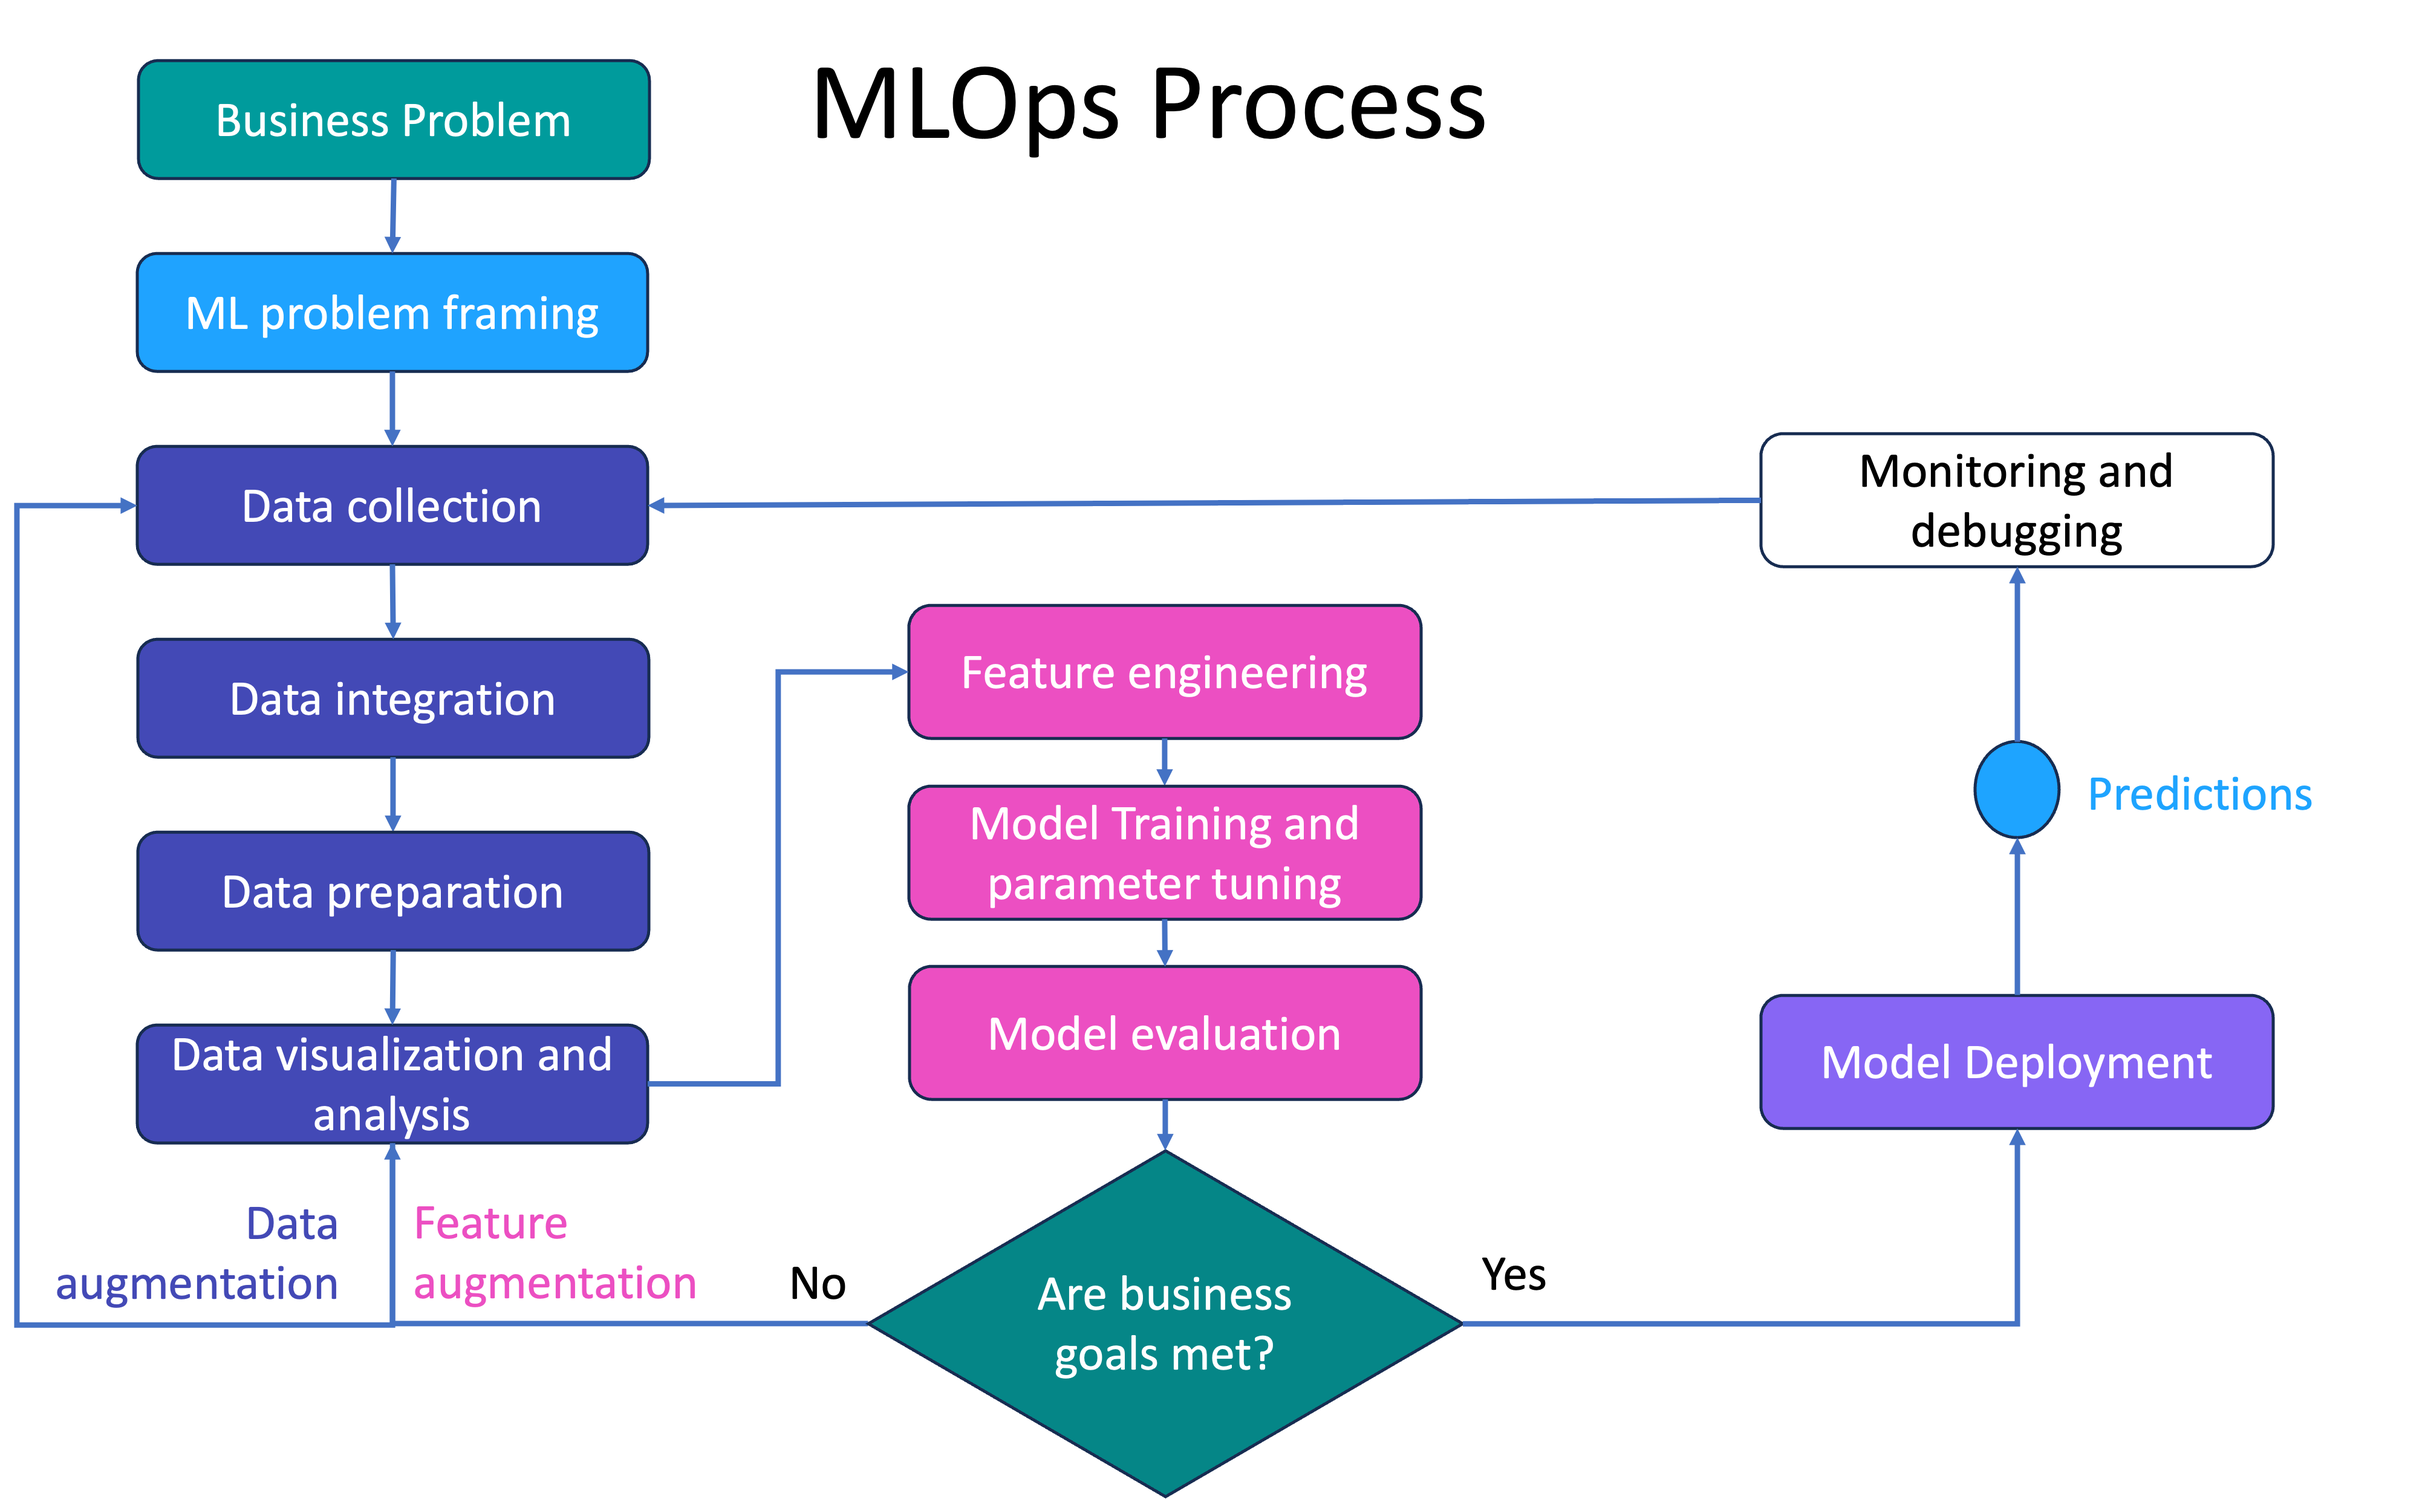
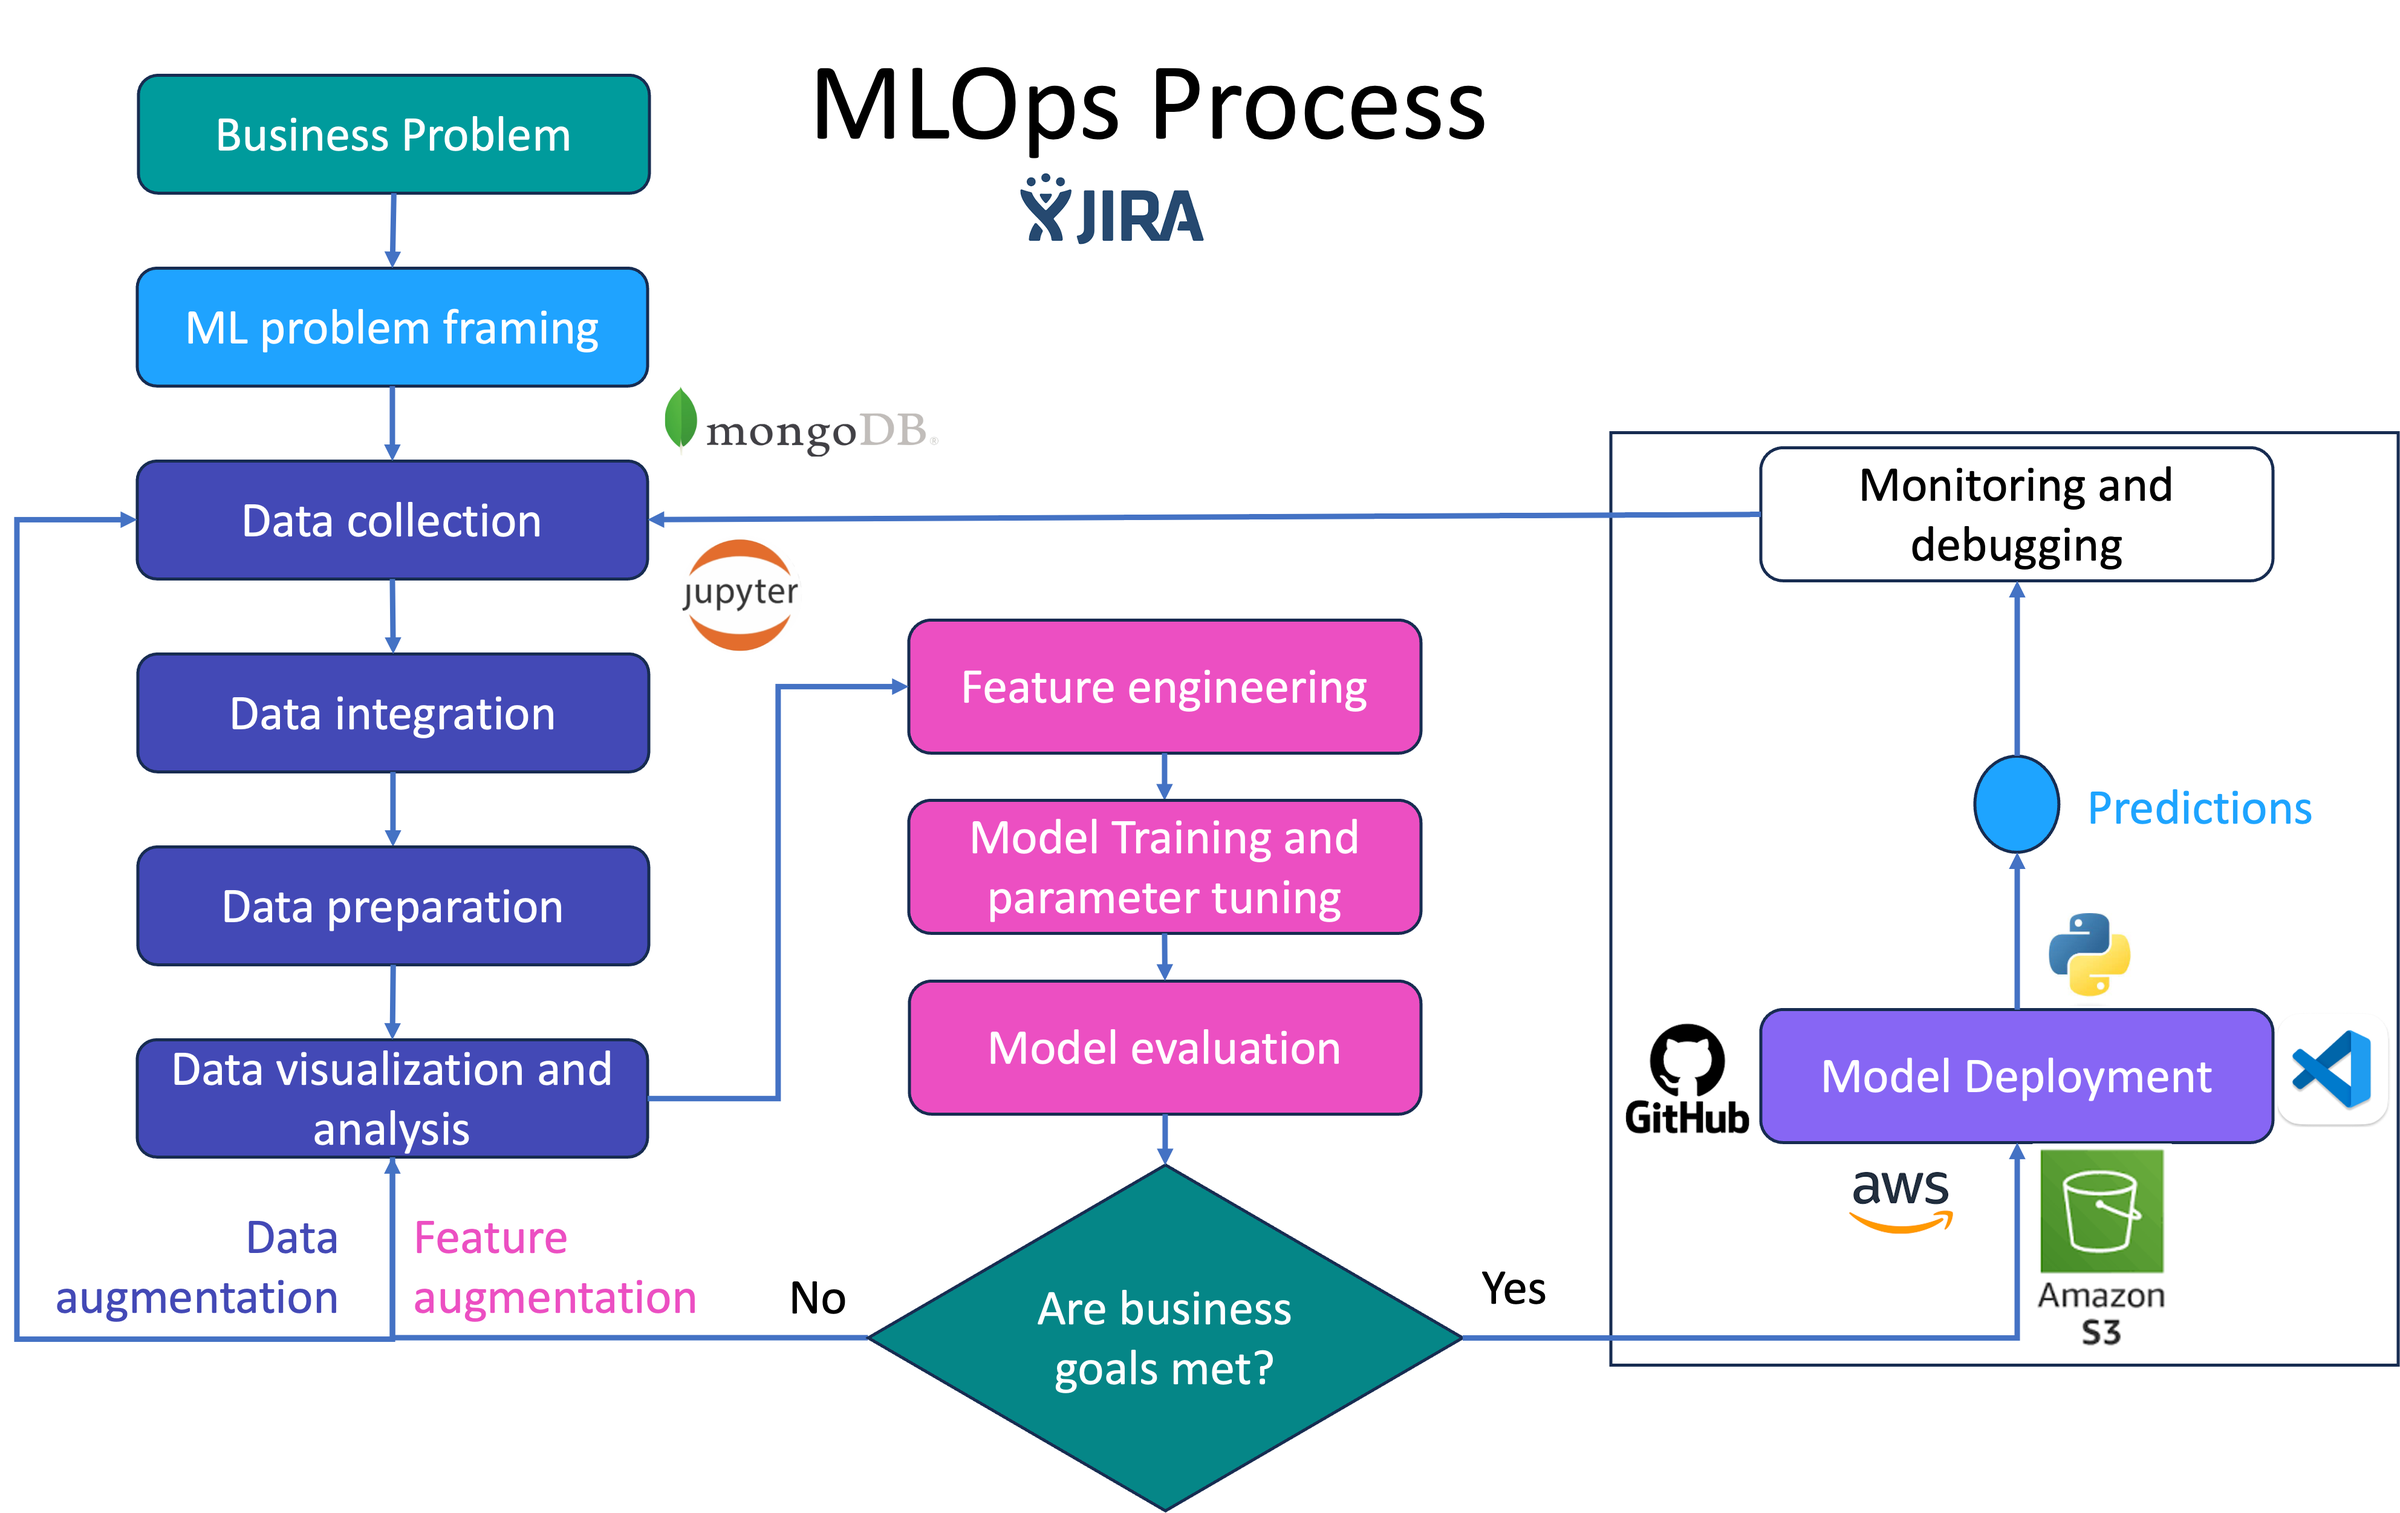
update design files

diff --git a/README.md b/README.md
@@ -42,5 +42,10 @@ pip install -r requirements.txt
 
 export MONGODB_URL="mongodb+srv://<username>:<password>...."
 
+export AWS_ACCESS_KEY_ID = <AWS_ACCESS_KEY_ID>
+
+export AWS_SECRET_ACCESS_KEY = <AWS_SECRET_ACCESS_KEY>
+
+export AWS_DEFAULT_REGION = <AWS_DEFAULT_REGION>
 
 ```
